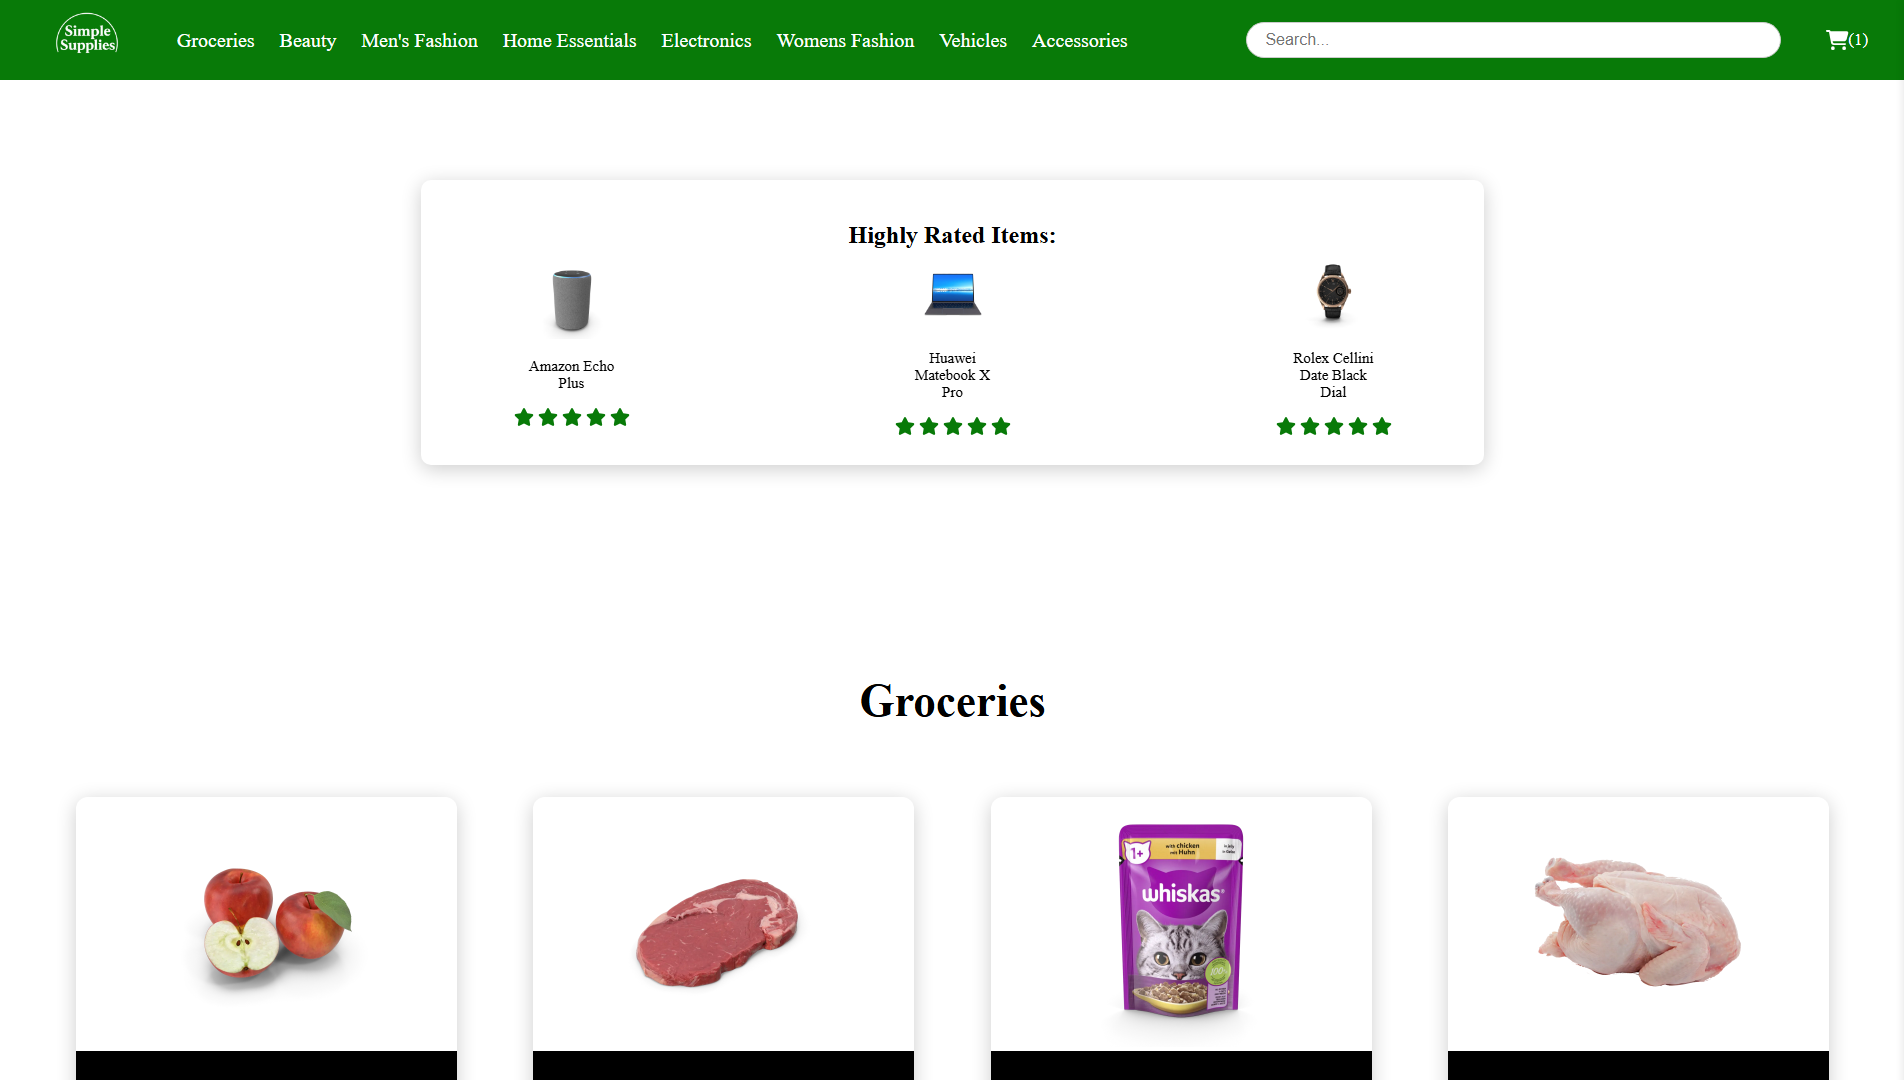
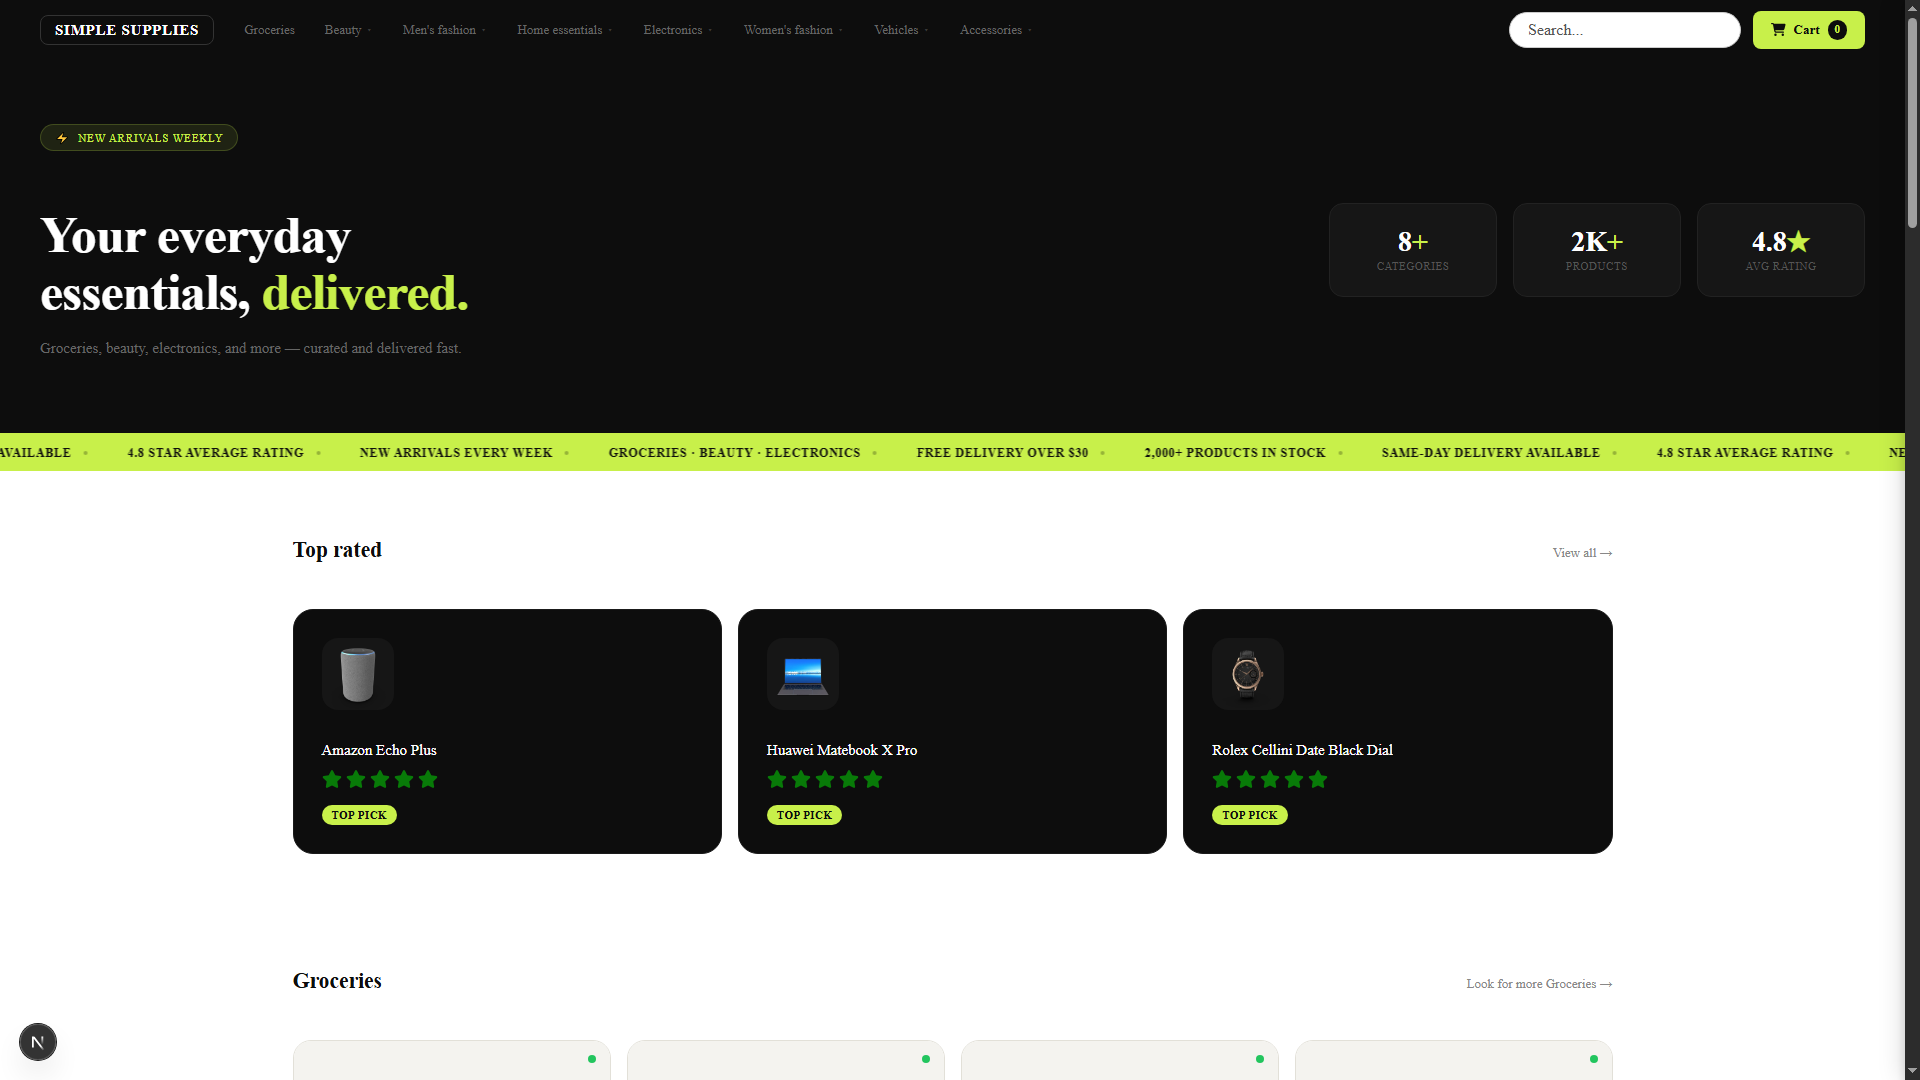
Project IMG update + arrorw scroll on tags

diff --git a/src/components/Card.tsx b/src/components/Card.tsx
@@ -1,4 +1,4 @@
-import { useState } from 'react';
+import { useState, useRef, useEffect } from 'react';
 
 interface CardProps {
   title: string;
@@ -18,6 +18,33 @@ export default function Card({
   tags,
 }: CardProps) {
   const [open, setOpen] = useState(false);
+
+  const scrollRef = useRef<HTMLDivElement>(null);
+  const [showLeft, setShowLeft] = useState(false);
+  const [showRight, setShowRight] = useState(false);
+
+  useEffect(() => {
+    const el = scrollRef.current;
+    if (!el) return;
+
+    const check = () => {
+      setShowLeft(el.scrollLeft > 0);
+      setShowRight(el.scrollLeft + el.clientWidth < el.scrollWidth - 4);
+    };
+
+    check();
+    el.addEventListener('scroll', check);
+    window.addEventListener('resize', check);
+    return () => {
+      el.removeEventListener('scroll', check);
+      window.removeEventListener('resize', check);
+    };
+  }, [tags]);
+
+  const scrollRight = () =>
+    scrollRef.current?.scrollBy({ left: 100, behavior: 'smooth' });
+  const scrollLeft = () =>
+    scrollRef.current?.scrollBy({ left: -100, behavior: 'smooth' });
 
   const tagColors: Record<string, string> = {
     React: 'bg-blue-500 text-white',
@@ -81,15 +108,39 @@ export default function Card({
       </div>
 
       {tags && tags.length > 0 && (
-        <div className="px-4 pt-3 pb-2 flex flex-wrap gap-2">
-          {tags.map((tag, index) => (
-            <span
-              key={index}
-              className={`text-xs px-2 py-1 rounded ${tagColors[tag] ?? defaultTagColor}`}
+        <div className="px-4 pt-3 pb-2 relative flex items-center gap-1">
+          <div
+            ref={scrollRef}
+            className="flex gap-2 overflow-x-auto scrollbar-hide scroll-smooth"
+            style={{ scrollbarWidth: 'none', msOverflowStyle: 'none' }}
+          >
+            {tags.map((tag, index) => (
+              <span
+                key={index}
+                className={`text-xs px-2 py-1 rounded whitespace-nowrap flex-shrink-0 ${tagColors[tag] ?? defaultTagColor}`}
+              >
+                {tag}
+              </span>
+            ))}
+          </div>
+
+          {showRight && (
+            <button
+              onClick={scrollRight}
+              className="flex-shrink-0 w-5 h-5 rounded-full bg-gray-100 hover:bg-gray-200 flex items-center justify-center text-gray-500 text-xs transition-colors"
             >
-              {tag}
-            </span>
-          ))}
+              →
+            </button>
+          )}
+
+          {showLeft && (
+            <button
+              onClick={scrollLeft}
+              className="absolute left-4 flex-shrink-0 w-5 h-5 rounded-full bg-gray-100 hover:bg-gray-200 flex items-center justify-center text-gray-500 text-xs transition-colors"
+            >
+              ←
+            </button>
+          )}
         </div>
       )}
 

diff --git a/src/App.css b/src/App.css
@@ -1,0 +1,8 @@
+.scrollbar-hide::-webkit-scrollbar {
+  display: none;
+}
+
+.scrollbar-hide {
+  -ms-overflow-style: none;
+  scrollbar-width: none;
+}
